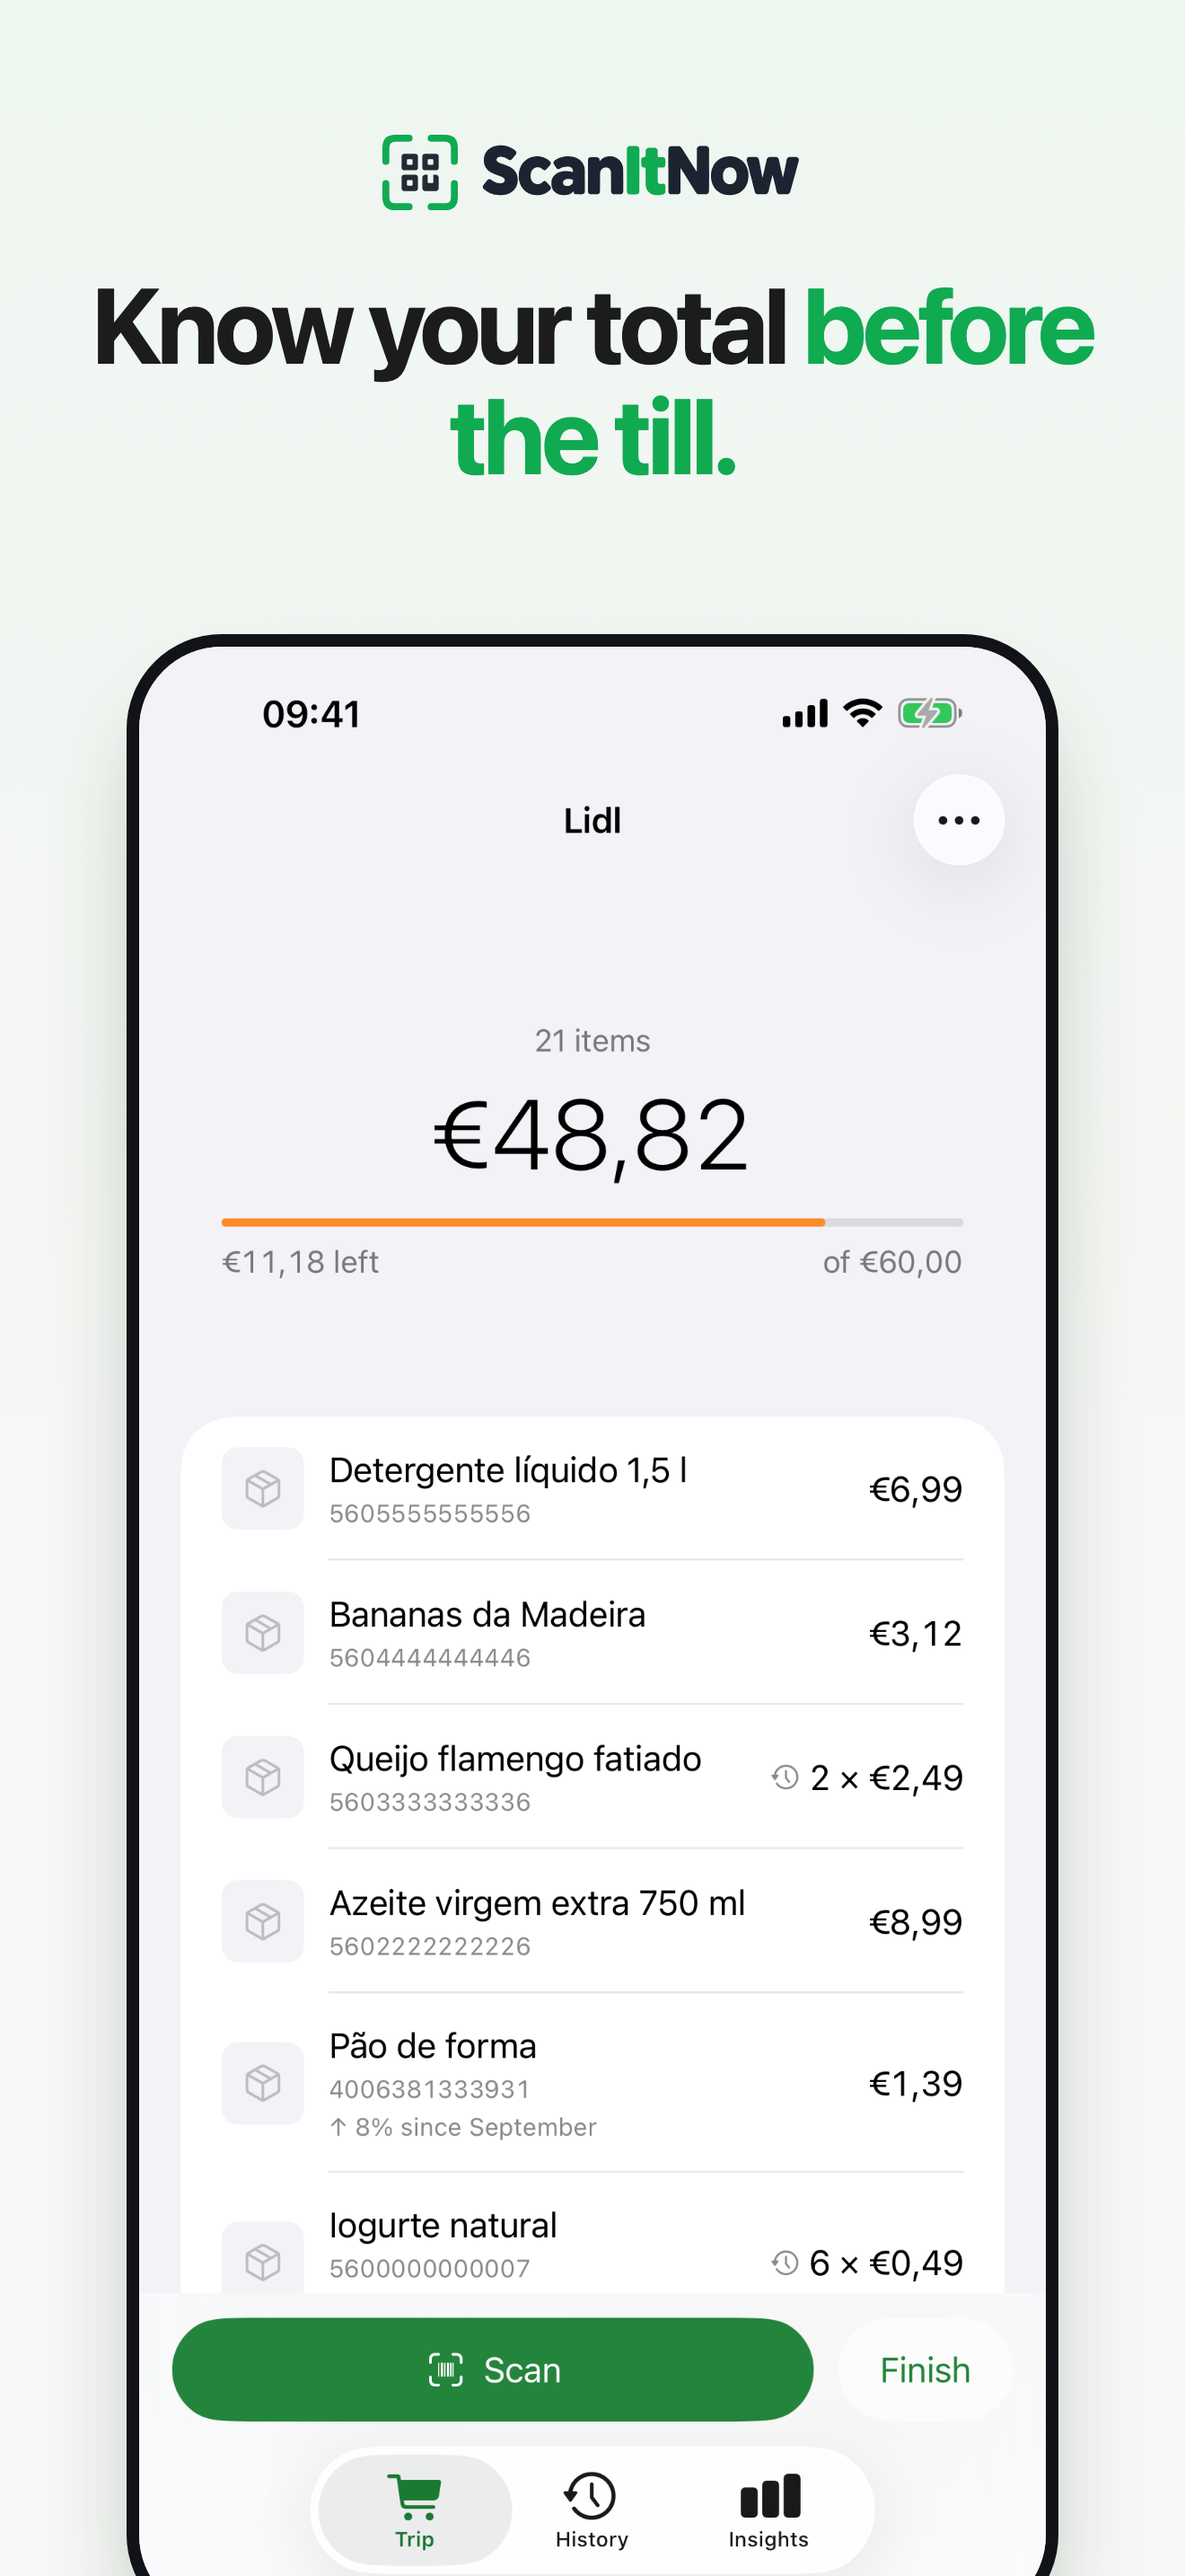
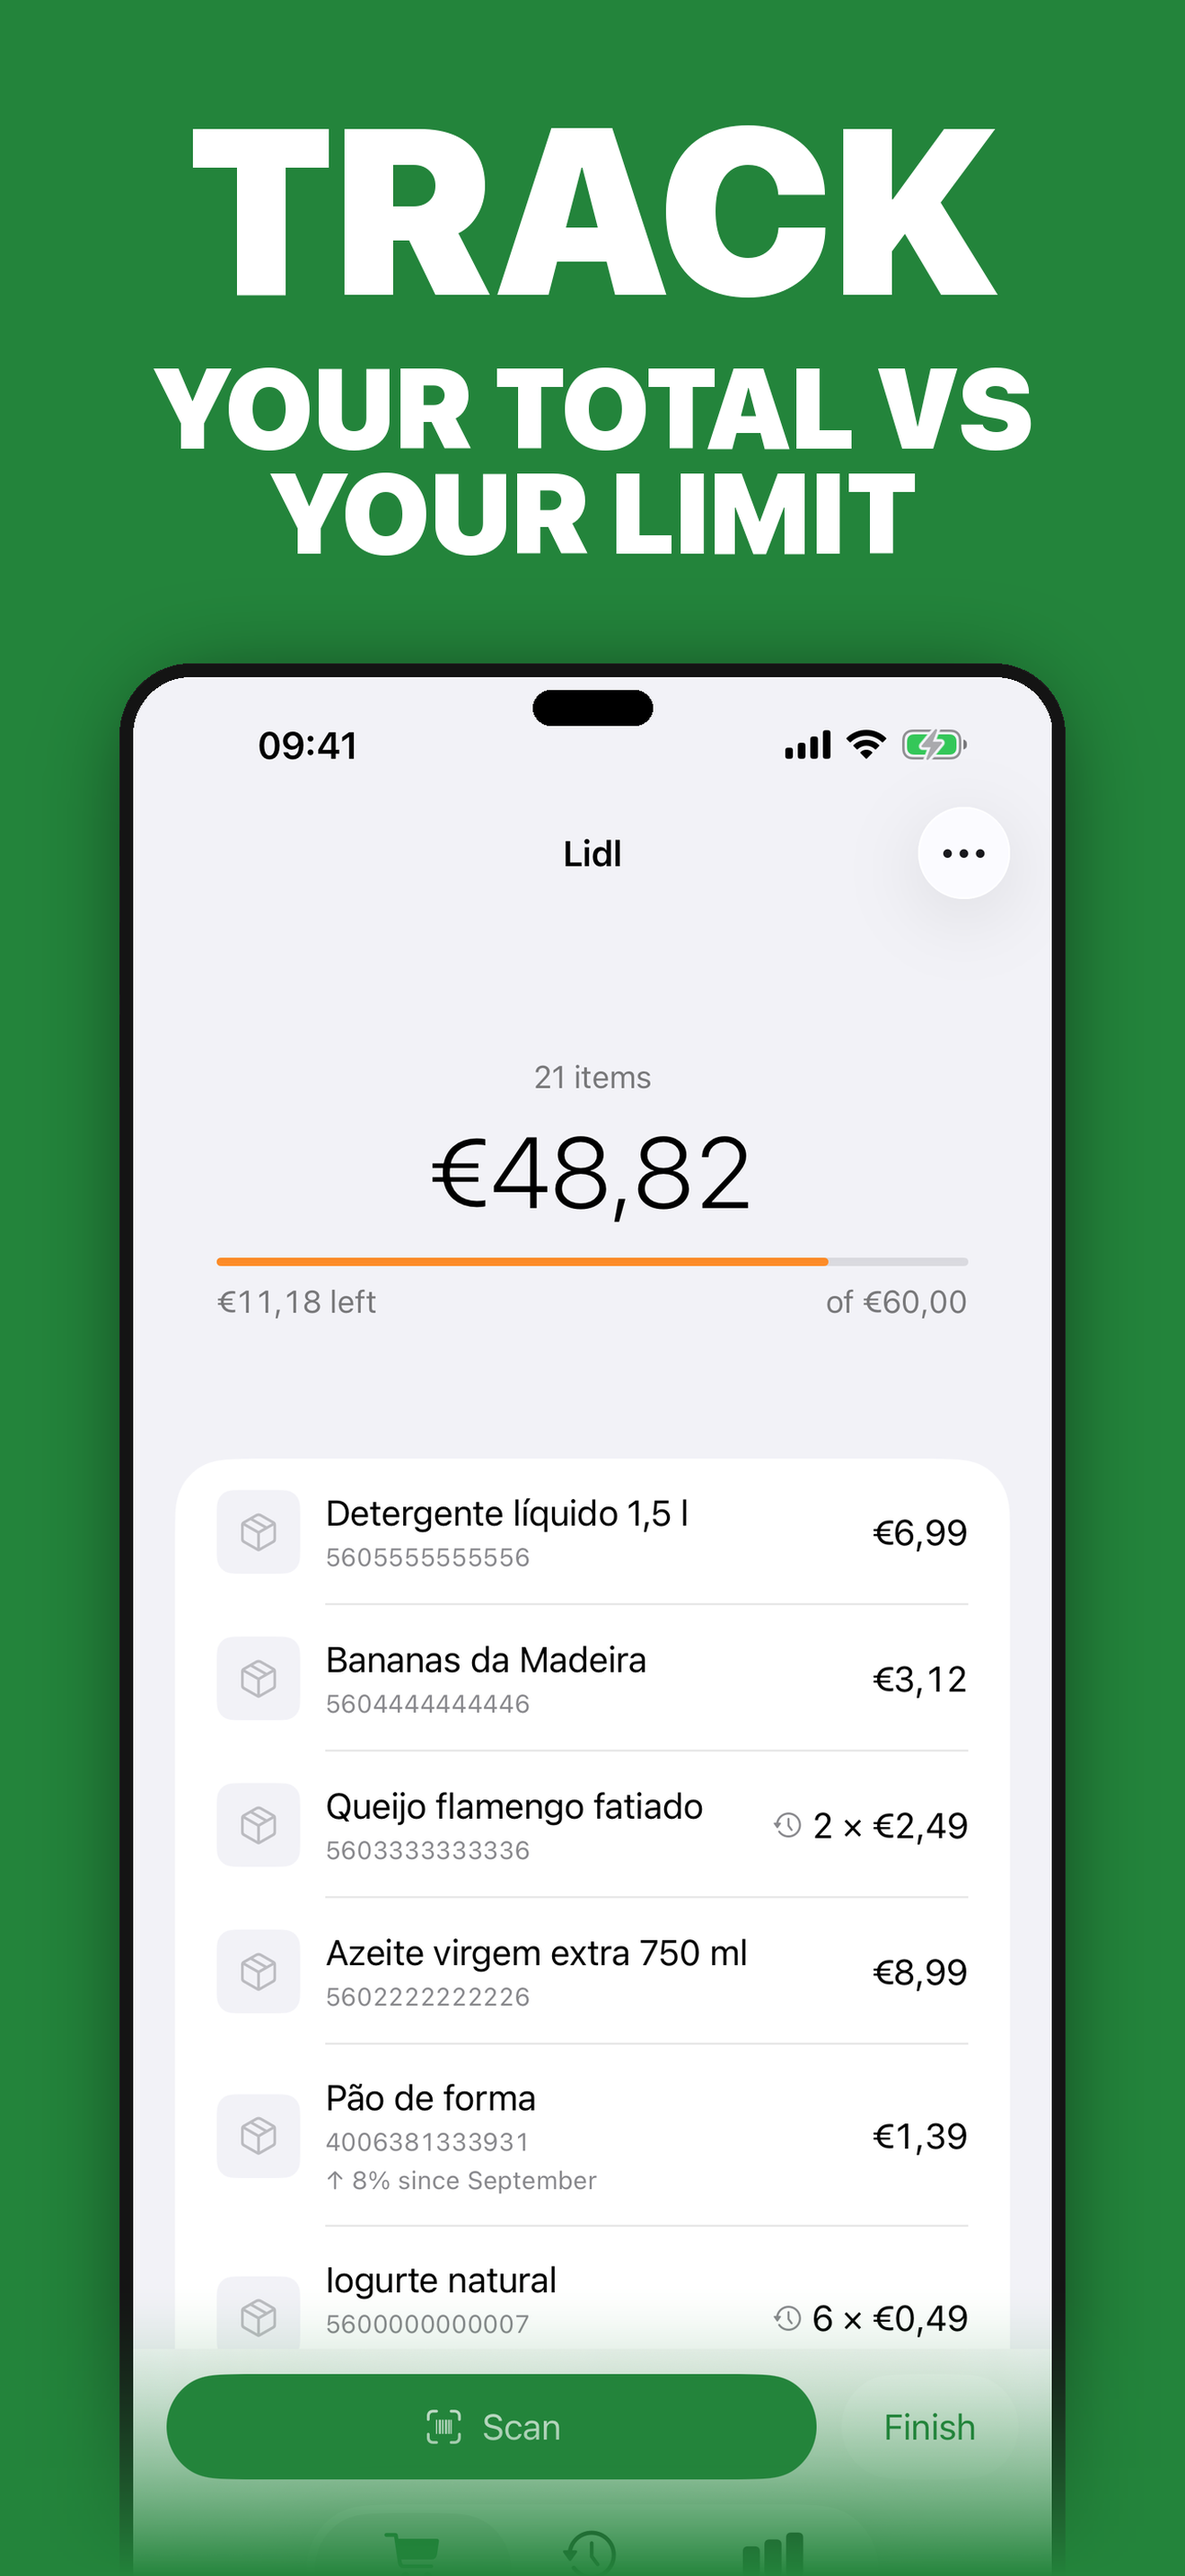
App Store screenshots: 5-slide set from the aso-appstore-screenshots flow
- Benefits: track total vs limit, see where money goes, spot price rises,
  skip retyping remembered prices, shop offline with no account
- New captures: insights price lists, confirm sheet with a remembered
  price (UITEST_AUTOSCAN screenshot mode for the simulated scanner)
- brand/tools/store-compose.py: skill compose.py (MIT) with the shadow
  drawn under the screen, SF Black fallback, 6.9" output
- Uploaded to App Store Connect, replacing the previous 4

diff --git a/scanit/scanitUITests/AppStoreScreenshots.swift b/scanit/scanitUITests/AppStoreScreenshots.swift
@@ -25,11 +25,36 @@ final class AppStoreScreenshots: XCTestCase {
         sleep(1)
         shot("store-2-insights")
 
+        // 2b. Insights lists: prices that went up, cheapest store for regulars.
+        // Scroll until the "Prices that went up" header sits just under the navigation bar.
+        let header = app.staticTexts["Prices that went up"]
+        for _ in 0..<6 where !(header.exists && header.isHittable) {
+            app.swipeUp(velocity: .slow)
+        }
+        XCTAssertTrue(header.waitForExistence(timeout: 5))
+        let target = app.coordinate(withNormalizedOffset: CGVector(dx: 0.5, dy: 0.15))
+        header.coordinate(withNormalizedOffset: CGVector(dx: 0.5, dy: 0.5))
+            .press(forDuration: 0.1, thenDragTo: target, withVelocity: .slow, thenHoldForDuration: 0.5)
+        sleep(1)
+        shot("store-5-prices")
+
         // 3. History.
         app.tabBars.buttons["History"].tap()
         XCTAssertTrue(app.staticTexts["monthTotal"].waitForExistence(timeout: 5))
         sleep(1)
         shot("store-3-history")
+
+        // 6. A remembered price: scan milk at Lidl, where the demo history saw it before.
+        app.terminate()
+        app.launchArguments = ["-ui-testing", "-ui-testing-demo-data", "-ui-testing-demo-trip"]
+        app.launchEnvironment["UITEST_AUTOSCAN"] = "5601234567892"
+        app.launch()
+        XCTAssertTrue(app.buttons["scan"].waitForExistence(timeout: 10))
+        app.buttons["scan"].tap()
+        XCTAssertTrue(app.staticTexts.containing(NSPredicate(format: "label BEGINSWITH 'Seen here'")).firstMatch.waitForExistence(timeout: 10))
+        sleep(1)
+        shot("store-6-remembered")
+        app.launchEnvironment["UITEST_AUTOSCAN"] = nil
 
         // 4. Ready to shop: the mascot, no trip in progress.
         app.terminate()

diff --git a/scanit/scanit/Features/Scanner/ScannerScreen.swift b/scanit/scanit/Features/Scanner/ScannerScreen.swift
@@ -153,15 +153,31 @@ private struct SimulatedScanner: View {
     let codes: [String]
     let onDetect: (DetectedCode) -> Void
 
+    /// Screenshot mode (`UITEST_AUTOSCAN=<code>`): no test buttons, a dark camera-like backdrop,
+    /// and one automatic scan, so App Store captures show the real confirm sheet over the scanner.
+    private let autoScan = ProcessInfo.processInfo.environment["UITEST_AUTOSCAN"]
+    @State private var didAutoScan = false
+
     var body: some View {
-        VStack(spacing: 12) {
-            ForEach(codes, id: \.self) { code in
-                Button("Simulate scan \(code)") {
-                    onDetect(DetectedCode(payload: code, symbology: .ean13))
+        if let autoScan {
+            LinearGradient(colors: [Color(white: 0.16), Color(white: 0.05)], startPoint: .top, endPoint: .bottom)
+                .ignoresSafeArea()
+                .task {
+                    guard !didAutoScan else { return }
+                    didAutoScan = true
+                    try? await Task.sleep(for: .milliseconds(600))
+                    onDetect(DetectedCode(payload: autoScan, symbology: .ean13))
                 }
-                .buttonStyle(.bordered)
+        } else {
+            VStack(spacing: 12) {
+                ForEach(codes, id: \.self) { code in
+                    Button("Simulate scan \(code)") {
+                        onDetect(DetectedCode(payload: code, symbology: .ean13))
+                    }
+                    .buttonStyle(.bordered)
+                }
             }
+            .environment(\.colorScheme, .dark)
         }
-        .environment(\.colorScheme, .dark)
     }
 }

diff --git a/brand/tools/store-compose.py b/brand/tools/store-compose.py
@@ -1,0 +1,231 @@
+#!/usr/bin/env python3
+"""
+ScanItNow App Store screenshot composer.
+
+Adapted from compose.py in the aso-appstore-screenshots skill (MIT License, (c) 2026 Adam Lyttle).
+Changes for ScanItNow, which composes locally without the skill's AI polish step:
+  - the device drop shadow is drawn *under* the app screen (the original drew it on top,
+    greying the screen; the AI step normally repaints over that)
+  - falls back to macOS's built-in San Francisco at Black weight when SF Pro Display Black
+    is not installed
+  - writes App Store 6.9" output (1320x2868) after composing on the 1290x2796 frame grid
+Device frame asset: ~/.claude/skills/aso-appstore-screenshots/assets/device_frame.png
+
+Original description: App Store Screenshot Composer
+Composites headline text, device frame template, and app screenshot
+into a pixel-perfect 1290×2796 App Store Connect image.
+
+The device frame is positioned dynamically based on text height,
+matching the proportions seen in professional App Store screenshots.
+"""
+
+import argparse
+import os
+from PIL import Image, ImageDraw, ImageFont, ImageChops, ImageFilter
+
+# ── Canvas ──────────────────────────────────────────────────────────
+CANVAS_W = 1290
+CANVAS_H = 2796
+
+# ── Device template constants (must match generate_frame.py) ───────
+DEVICE_W = 1030
+BEZEL = 15
+SCREEN_W = DEVICE_W - 2 * BEZEL    # 1000
+SCREEN_CORNER_R = 62
+
+# ── Layout ──────────────────────────────────────────────────────────
+DEVICE_Y = 720                       # device top position (fixed)
+MIN_TEXT_DEVICE_GAP = 40             # minimum gap between text bottom and device top
+
+# ── Typography ──────────────────────────────────────────────────────
+VERB_SIZE_MAX = 256
+VERB_SIZE_MIN = 150
+DESC_SIZE = 124
+VERB_DESC_GAP = 20
+DESC_LINE_GAP = 24
+MAX_TEXT_W = int(CANVAS_W * 0.92)
+MAX_VERB_W = int(CANVAS_W * 0.92)
+
+FONT_PATH = next(
+    (p for p in (
+        "/Library/Fonts/SF-Pro-Display-Black.otf",
+        os.path.expanduser("~/Library/Fonts/SF-Pro-Display-Black.otf"),
+    ) if os.path.exists(p)),
+    "/Library/Fonts/SF-Pro-Display-Black.otf",
+)
+FRAME_PATH = os.path.expanduser("~/.claude/skills/aso-appstore-screenshots/assets/device_frame.png")
+SYSTEM_SF = "/System/Library/Fonts/SFNS.ttf"
+OUTPUT_W, OUTPUT_H = 1320, 2868  # iPhone 6.9"
+
+_truetype = ImageFont.truetype
+
+
+def _font(path, size):
+    if path == FONT_PATH and not os.path.exists(path):
+        f = _truetype(SYSTEM_SF, size)
+        f.set_variation_by_name("Black")
+        return f
+    return _truetype(path, size)
+
+
+ImageFont.truetype = _font
+
+
+def hex_to_rgb(h):
+    h = h.lstrip("#")
+    return tuple(int(h[i : i + 2], 16) for i in (0, 2, 4))
+
+
+def word_wrap(draw, text, font, max_w):
+    words = text.split()
+    lines, cur = [], ""
+    for w in words:
+        test = f"{cur} {w}".strip()
+        if draw.textlength(test, font=font) <= max_w:
+            cur = test
+        else:
+            if cur:
+                lines.append(cur)
+            cur = w
+    if cur:
+        lines.append(cur)
+    return lines
+
+
+def fit_font(text, max_w, size_max, size_min):
+    """Return the largest font size where text fits within max_w."""
+    dummy = ImageDraw.Draw(Image.new("RGBA", (1, 1)))
+    for size in range(size_max, size_min - 1, -4):
+        font = ImageFont.truetype(FONT_PATH, size)
+        bbox = dummy.textbbox((0, 0), text, font=font)
+        if (bbox[2] - bbox[0]) <= max_w:
+            return font
+    return ImageFont.truetype(FONT_PATH, size_min)
+
+
+def draw_centered(draw, y, text, font, max_w=None):
+    lines = word_wrap(draw, text, font, max_w) if max_w else [text]
+    for line in lines:
+        bbox = draw.textbbox((0, 0), line, font=font)
+        h = bbox[3] - bbox[1]
+        # Use anchor="mt" (middle-top) for pixel-perfect horizontal centering
+        # Adjust y by bbox[1] offset so text top aligns with intended position
+        draw.text((CANVAS_W // 2, y - bbox[1]), line, fill="white", font=font, anchor="mt")
+        y += h + DESC_LINE_GAP
+    return y
+
+
+def compose(bg_hex, verb, desc, screenshot_path, output_path):
+    bg = hex_to_rgb(bg_hex)
+
+    # ── 1. Canvas ───────────────────────────────────────────────────
+    canvas = Image.new("RGBA", (CANVAS_W, CANVAS_H), (*bg, 255))
+    draw = ImageDraw.Draw(canvas)
+
+    # ── 2. Measure text, then center between top of canvas & device ─
+    verb_font = fit_font(verb.upper(), MAX_VERB_W, VERB_SIZE_MAX, VERB_SIZE_MIN)
+    desc_font = ImageFont.truetype(FONT_PATH, DESC_SIZE)
+
+    # Measure total text block height (dry run at y=0)
+    dummy = ImageDraw.Draw(Image.new("RGBA", (1, 1)))
+    m_y = 0
+    m_y = draw_centered(dummy, m_y, verb.upper(), verb_font)
+    m_y += VERB_DESC_GAP
+    text_height = draw_centered(dummy, m_y, desc.upper(), desc_font, max_w=MAX_TEXT_W)
+
+    # Device at fixed Y; text starts at fixed position
+    device_y = DEVICE_Y
+    text_top = 200
+
+    # Draw text at centered position
+    y = text_top
+    y = draw_centered(draw, y, verb.upper(), verb_font)
+    y += VERB_DESC_GAP
+    draw_centered(draw, y, desc.upper(), desc_font, max_w=MAX_TEXT_W)
+    device_x = (CANVAS_W - DEVICE_W) // 2
+    screen_x = device_x + BEZEL
+    screen_y = device_y + BEZEL
+
+    # ── 4a. Drop shadow (under the screen, unlike the original) ─────────────────────────────────────────────
+    shadow_radius = 50
+    shadow_layer = Image.new("RGBA", canvas.size, (0, 0, 0, 0))
+    ImageDraw.Draw(shadow_layer).rounded_rectangle(
+        [device_x + 20, device_y + 30, device_x + DEVICE_W - 20, CANVAS_H + 200],
+        radius=77,
+        fill=(0, 0, 0, 160),
+    )
+    shadow_layer = shadow_layer.filter(ImageFilter.GaussianBlur(radius=shadow_radius))
+    canvas = Image.alpha_composite(canvas, shadow_layer)
+
+    # ── 4. Screenshot into screen area ──────────────────────────────
+    shot = Image.open(screenshot_path).convert("RGBA")
+
+    # Scale to fill screen width
+    scale = SCREEN_W / shot.width
+    sc_w = SCREEN_W
+    sc_h = int(shot.height * scale)
+    shot = shot.resize((sc_w, sc_h), Image.LANCZOS)
+
+    # Screen extends to bottom of canvas + overflow
+    screen_h = CANVAS_H - screen_y + 500
+
+    # Screen mask (rounded rect)
+    scr_mask = Image.new("L", canvas.size, 0)
+    ImageDraw.Draw(scr_mask).rounded_rectangle(
+        [screen_x, screen_y, screen_x + SCREEN_W, screen_y + screen_h],
+        radius=SCREEN_CORNER_R,
+        fill=255,
+    )
+
+    # Black screen bg + screenshot on top
+    scr_layer = Image.new("RGBA", canvas.size, (0, 0, 0, 0))
+    ImageDraw.Draw(scr_layer).rounded_rectangle(
+        [screen_x, screen_y, screen_x + SCREEN_W, screen_y + screen_h],
+        radius=SCREEN_CORNER_R,
+        fill=(0, 0, 0, 255),
+    )
+    scr_layer.paste(shot, (screen_x, screen_y))
+    scr_layer.putalpha(scr_mask)
+
+    canvas = Image.alpha_composite(canvas, scr_layer)
+
+    # ── 6. Device frame template ───────────────────────────────────
+    frame_template = Image.open(FRAME_PATH).convert("RGBA")
+
+    # Place frame template onto canvas-sized layer at calculated position
+    frame_layer = Image.new("RGBA", canvas.size, (0, 0, 0, 0))
+    frame_layer.paste(frame_template, (device_x, device_y))
+    canvas = Image.alpha_composite(canvas, frame_layer)
+
+    # ── 7. Bottom fade — phone dissolves into background ──────────
+    fade_h = 320
+    fade_start = CANVAS_H - fade_h
+    fade = Image.new("RGBA", canvas.size, (0, 0, 0, 0))
+    for row in range(fade_h):
+        alpha = int(255 * (row / fade_h) ** 1.5)
+        ImageDraw.Draw(fade).line(
+            [(0, fade_start + row), (CANVAS_W, fade_start + row)],
+            fill=(*bg, alpha),
+        )
+    canvas = Image.alpha_composite(canvas, fade)
+
+    # ── 8. Save ────────────────────────────────────────────────────
+    canvas = canvas.convert("RGB").resize((OUTPUT_W, OUTPUT_H), Image.LANCZOS)
+    canvas.save(output_path, "PNG")
+    print(f"✓ {output_path} ({OUTPUT_W}×{OUTPUT_H})")
+
+
+def main():
+    p = argparse.ArgumentParser(description="Compose App Store screenshot")
+    p.add_argument("--bg", required=True, help="Background hex colour (#E31837)")
+    p.add_argument("--verb", required=True, help="Action verb (TRACK)")
+    p.add_argument("--desc", required=True, help="Benefit descriptor (TRADING CARD PRICES)")
+    p.add_argument("--screenshot", required=True, help="Simulator screenshot path")
+    p.add_argument("--output", required=True, help="Output file path")
+    args = p.parse_args()
+
+    compose(args.bg, args.verb, args.desc, args.screenshot, args.output)
+
+
+if __name__ == "__main__":
+    main()

diff --git a/docs/app-store-listing.md b/docs/app-store-listing.md
@@ -75,9 +75,17 @@ grocery,shopping,budget,barcode,scanner,price,supermarket,spending,limit,cart,fo
 **Marketing URL**: https://facorreia.com/projects/scanitnow
 **Copyright**: 2026 Fernando Correia
 
-**Screenshots (6.9" display)**: `brand/store/framed/01.png` … `04.png` (1320×2868, in this order). They were generated by
-the `AppStoreScreenshots` UI test plus `brand/tools/render-store-frames.sh`. Apple scales 6.9" shots for smaller
-iPhones, so no other sizes are needed. The app is iPhone only, so there are no iPad shots.
+**Screenshots (6.9" display)**: five in `brand/store/aso/` (1320×2868), **uploaded on 2026-10-14**:
+
+1. TRACK: your total vs your limit
+2. SEE: where your money goes
+3. SPOT: prices that went up
+4. SKIP: retyping prices you've seen
+5. SHOP: offline, no account needed
+
+They are made from the `AppStoreScreenshots` UI test (raw captures in `brand/store/raw/`) and
+`brand/tools/store-compose.py`, adapted from the aso-appstore-screenshots skill. To re-upload, re-render
+and run `fastlane deliver --skip_metadata true --overwrite_screenshots true` from `scanit/`.
 
 **What's New**: leave empty for 1.0.
 
